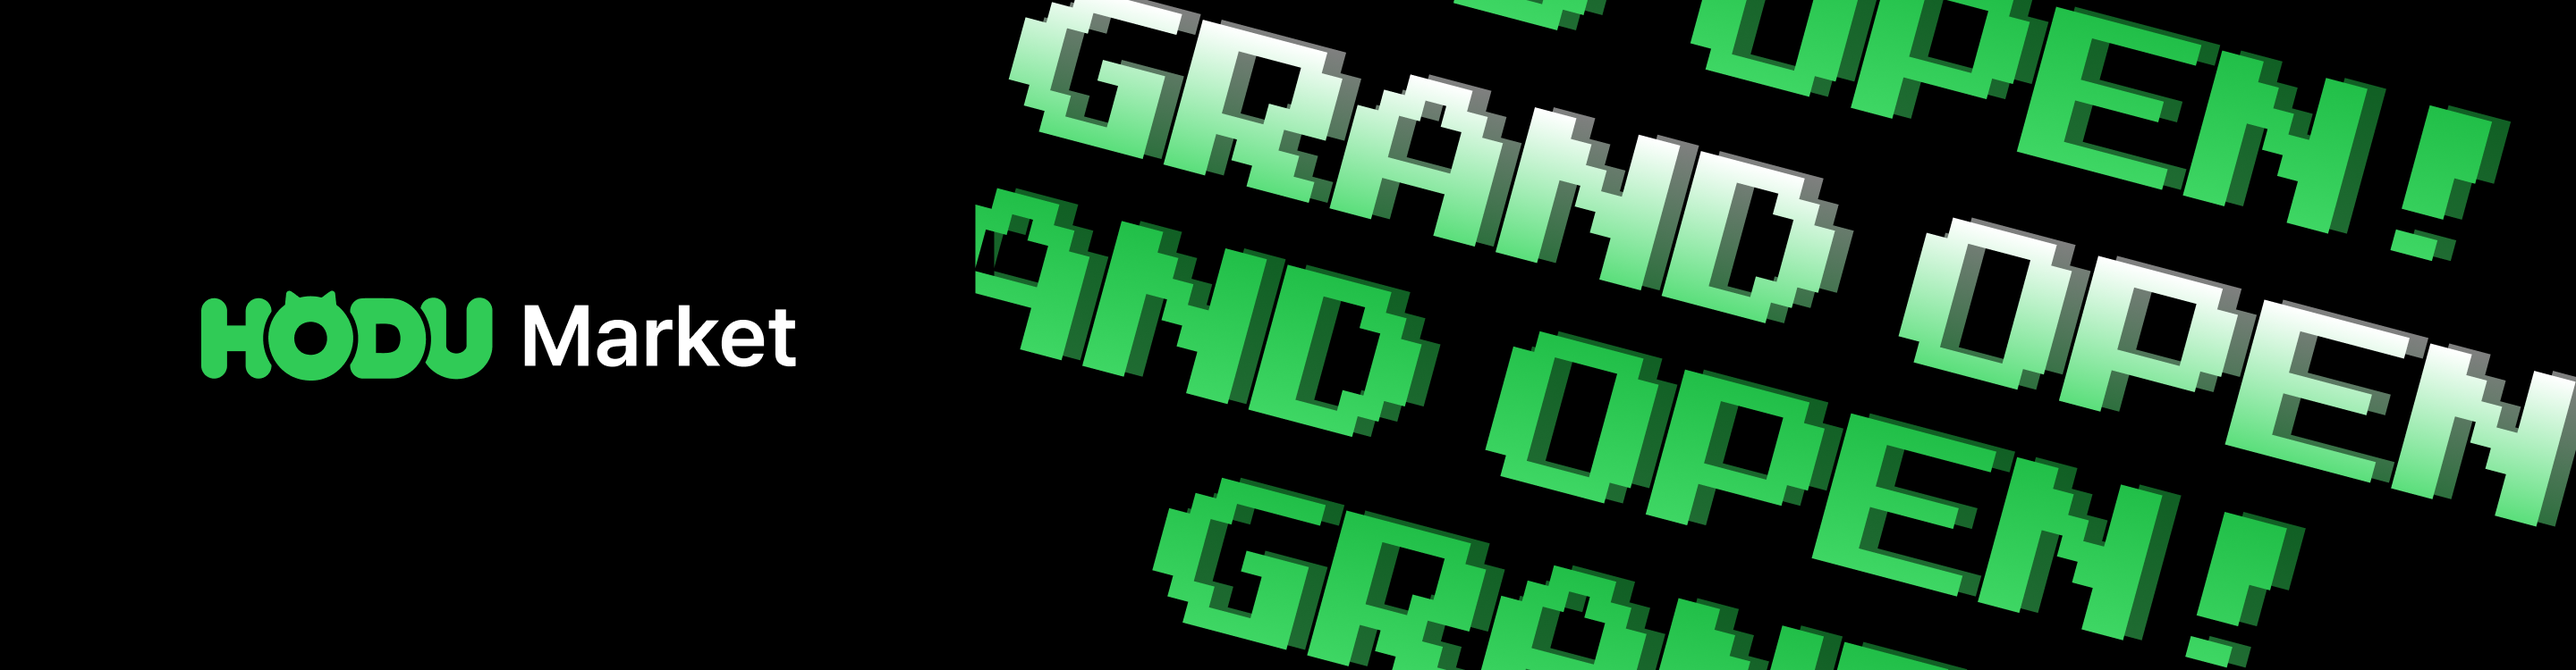
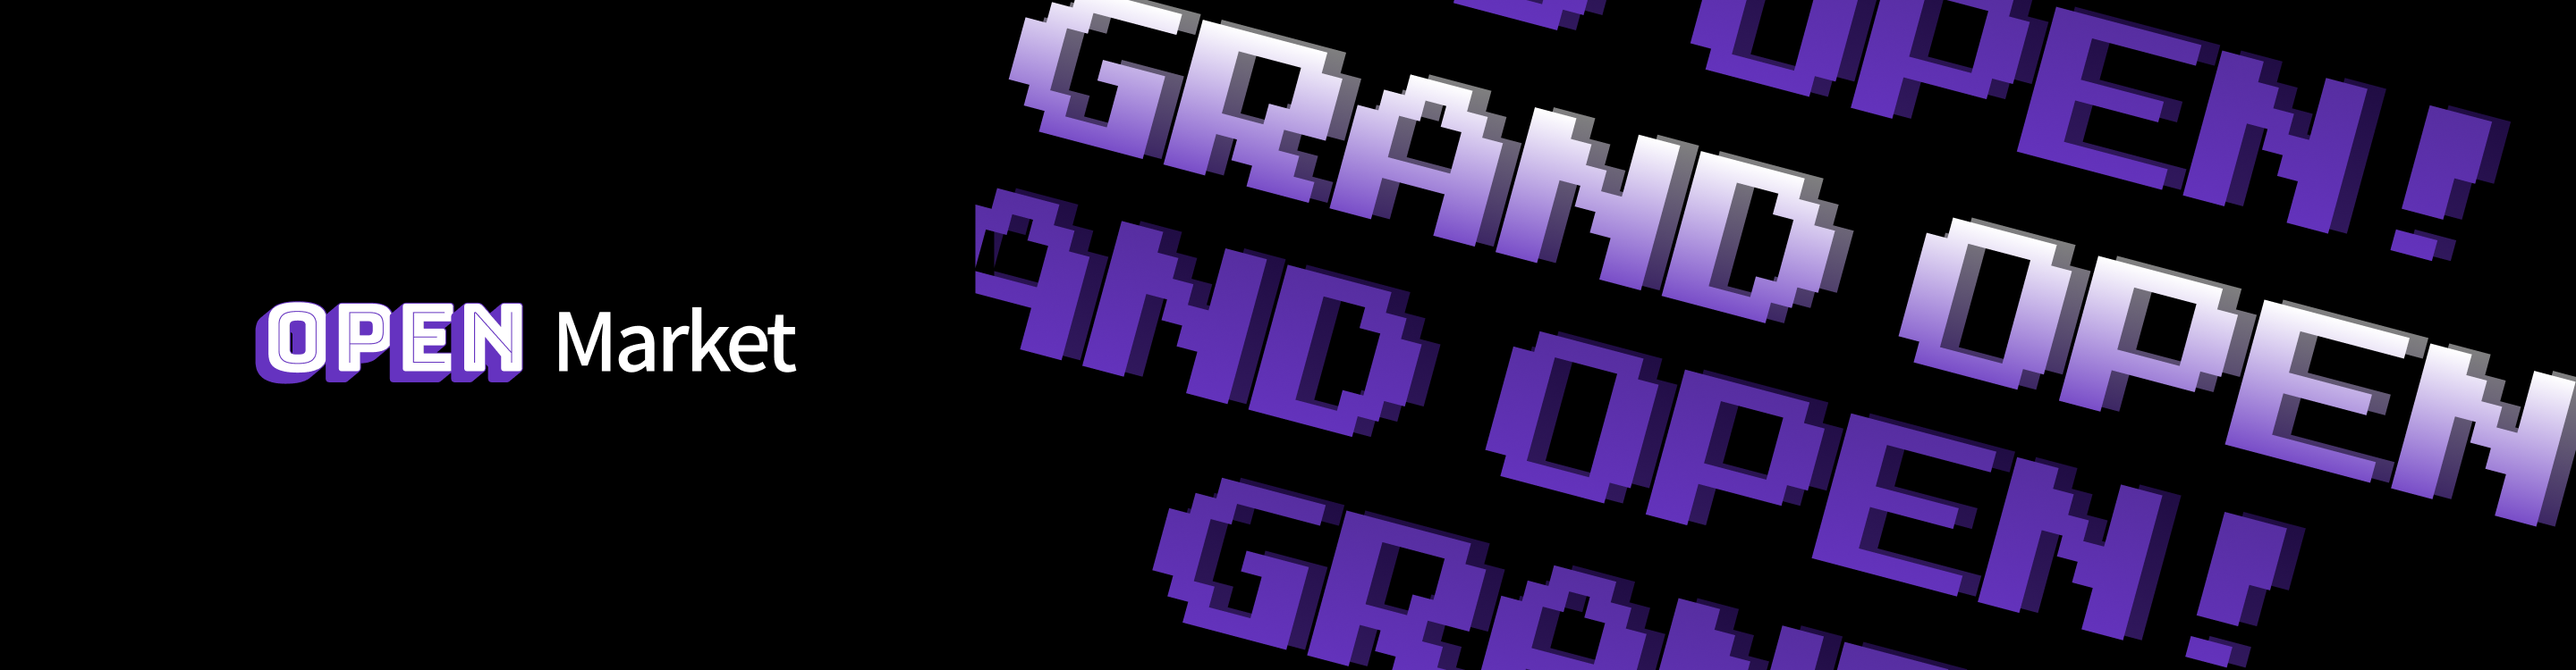
💄[style update]공통 스타일 변경

diff --git a/project/hodu-market/src/component/header/Header.jsx b/project/hodu-market/src/component/header/Header.jsx
@@ -87,7 +87,7 @@ const Header = () => {
       <div className={styles['contnent-area']}>
         <div className={styles['left-contnet']}>
           <h1 className={styles['logo-area']} onClick={handleHomeLink}>
-            <img src={process.env.PUBLIC_URL + '/image/Logo-hodu.png'} alt='hodu martet'/>
+            <img src={process.env.PUBLIC_URL + '/image/main-logo.png'} alt='hodu martet'/>
           </h1> 
           <div className={styles['search-box']}>
             <input className={styles['search-bar']} type='text' placeholder='상품을 검색해보세요!' value={searchText} onChange={(e)=>{setSearchText(e.target.value)}}  onFocus={() => {searchText.length !== 0 ? setSearchResultOpen(true) : setSearchResultOpen(false)}} onBlur={() => {setSearchResultOpen(false)}}/>
@@ -152,7 +152,7 @@ const Header = () => {
         :
         //판매자 회원일 경우
         <div className={styles['right-contnet']}>
-          <BasicBtn $textMs $paddingS onClick={handleSellerCenter}>판매자 센터</BasicBtn>
+          <BasicBtn $green $textMs $paddingS onClick={handleSellerCenter}>판매자 센터</BasicBtn>
           <button className={styles['icon-btn']} onClick={moreMenuFn} onBlur={() => {setShowMenu(false)}}>
             <i className='icon icon-user'></i>
             <span className={styles['btn-title']}>마이페이지</span>

diff --git a/project/hodu-market/src/pages/seller/seller.module.css b/project/hodu-market/src/pages/seller/seller.module.css
@@ -11,14 +11,14 @@
   font-size: 30px;
 }
 .title-box>h3>strong {
-  color: #21BF48;
+  color: #443B32;
   padding-left: 5px;
 }
 .title-box>button i {
   margin-right: 8px;
 }
 .content-box {
-  height: calc(100vh - 210px);
+  height: 100%;
   min-height: 400px;
   padding-bottom: 50px;
   display: flex;
@@ -38,15 +38,19 @@
   border-radius: 5px;
 }
 .tab-box .tab-obj.active {
-  background-color: #21BF48;
+  background-color: #443B32;
   color: #fff;
 }
 .tab-box .tab-obj.active:hover {
-  background-color: #21BF48;
+  background-color: #443B32;
   color: #fff;
 }
 .tab-box .tab-obj:hover {
-  background-color: #EFFFF3;
+  background-color: #cfcfcf;
+}
+.tab-box .tab-obj.active>span {
+  background-color: #fff;
+  color: #443B32;
 }
 .tab-box .tab-obj>span {
   position: absolute;
@@ -56,7 +60,7 @@
   right: 15px;
   top: 50%;
   transform: translateY(-50%);
-  background-color: #EB5757;
+  background-color: #443B32;
   text-align: center;
   color: #fff;
   font-size: 12px;
@@ -172,7 +176,7 @@
 }
 .edit-box .input-box .edit-obj button.active {
   border: none;
-  background-color: #21BF48;
+  background-color: #443B32;
   color: #fff;
 }
 .edit-box .input-box .edit-obj .obj-deco-input {

diff --git a/project/hodu-market/src/component/header/header.module.css b/project/hodu-market/src/component/header/header.module.css
@@ -37,7 +37,7 @@
   padding: 13px 50px 13px 22px;
   width: 100%;
   border-radius: 50px;
-  border: 2px solid #21BF48;
+  border: 2px solid #6533C0;
   background: #FFF;
 }
 .left-contnet .search-btn {
@@ -59,7 +59,7 @@
   display: block;
   padding-bottom: 5px;
   font-family: 'Spoqa Han Sans Neo-Bold';
-  color: #21BF48;
+  color: #6533C0;
   border-bottom: 1px solid #c4c4c4;
   padding: 10px 15px;
 }
@@ -108,7 +108,7 @@
   color: #767676;
 }
 .left-contnet .search-result-box .result-obj>li:hover {
-  background-color: #21bf492f;
+  background-color: #6433c018;
 }
 .left-contnet .search-result-box .result-obj>li>div>strong {
   font-size: 14px;
@@ -135,7 +135,7 @@
   align-items: center;
 }
 .right-contnet .icon-btn:hover>i {
-  filter: invert(50%) sepia(95%) saturate(390%) hue-rotate(83deg) brightness(98%) contrast(96%);
+  filter: invert(36%) sepia(84%) saturate(7110%) hue-rotate(256deg) brightness(65%) contrast(89%);
 }
 .right-contnet .icon-btn .btn-title {
   color: #767676;
@@ -143,7 +143,7 @@
   font-size: 12px;
 }
 .right-contnet .icon-btn:hover .btn-title {
-  color: #21BF48;
+  color: #6533C0;
 }
 .right-contnet .my-more-menu {
   position: absolute;

diff --git a/project/hodu-market/src/pages/login/Login.jsx b/project/hodu-market/src/pages/login/Login.jsx
@@ -75,7 +75,7 @@ const Login = () => {
       <div className={styles['content-area']}>
         <Link to={'/'}>
           <h1 className={styles['page-title']}>
-            <img src={process.env.PUBLIC_URL + '/image/Logo-hodu.png'} alt='hodu market'/>
+            <img src={process.env.PUBLIC_URL + '/image/main-logo.png'} alt='hodu market'/>
           </h1>
         </Link>
         <section className={styles['form-area']}>
@@ -89,7 +89,7 @@ const Login = () => {
             </button>
           </div>
           <form className={styles['input-area']} onSubmit={handelLogin}>
-            <h3 className={styles['form-title']}>
+            <h3 className={loginType === 'SELLER' ? `${styles['form-title']} ${styles.seller}` : styles['form-title']}>
               {loginType === 'SELLER' ? '판매회원 로그인 화면입니다.' : '구매회원 로그인 화면입니다.'}
               {loginType === 'SELLER' ? 
               <p><strong>구매회원</strong>이실 경우 상단 탭이에서 <strong>'구매회원 로그인'</strong>선택 후 로그인을 진행해 주세요</p>

diff --git a/project/hodu-market/src/pages/join/Join.jsx b/project/hodu-market/src/pages/join/Join.jsx
@@ -221,7 +221,7 @@ const Join = () => {
       <div className={styles['content-area']}>
         <Link to={'/'}>
           <h1 className={styles['page-title']}>
-            <img src={process.env.PUBLIC_URL + '/image/Logo-hodu.png'} alt='hodu market'/>
+            <img src={process.env.PUBLIC_URL + '/image/main-logo.png'} alt='hodu market'/>
           </h1>
         </Link>
         <section className={styles['form-area']}>
@@ -236,7 +236,7 @@ const Join = () => {
           </div>
           <form className={styles['input-area']}>
             <div className={styles['input-box']}>
-              <h3 className={styles['form-title']}>
+            <h3 className={loginType === 'SELLER' ? `${styles['form-title']} ${styles.seller}` : styles['form-title']}>
                 {loginType === 'SELLER' ? '판매회원 가입 화면입니다.' : '구매회원 가입 화면입니다.'}
                 {loginType === 'SELLER' ? 
                 <p><strong>구매회원</strong>가입을 원하실 경우 상단 탭에서<strong>'구매회원 가입'</strong>을 선택해 주세요</p>

diff --git a/project/hodu-market/src/pages/join/join.module.css b/project/hodu-market/src/pages/join/join.module.css
@@ -57,8 +57,11 @@
 }
 .content-area .input-box>.form-title{
   font-family: 'Spoqa Han Sans Neo-Bold';
-  color: #21BF48;
+  color: #6533C0;
   text-align: center;
+}
+.content-area .input-box>.form-title.seller {
+  color: #443B32;
 }
 .content-area .input-box>.form-title>p {
   color: #767676;
@@ -66,8 +69,13 @@
   padding: 10px 0 15px 0;
 }
 .content-area .input-box>.form-title>p>strong {
-  border-bottom: 1px solid #767676;
+  border-bottom: 1px solid #6533C0;
   font-family: 'Spoqa Han Sans Neo-Medium';
+  color: #6533C0;
+}
+.content-area .input-box>.form-title.seller>p>strong {
+  border-bottom: 1px solid #443B32;
+  color: #443B32;
 }
 /*스크롤 영역 커스텀*/
 .content-area .input-box::-webkit-scrollbar {
@@ -106,7 +114,7 @@
 }
 
 .input-box .alert-mes-ok {
-  color: #21BF48;
+  color: #6533C0;
 }
 
 .input-box .margin-area {
@@ -141,7 +149,7 @@
   padding: 0 14px;
 }
 .content-area .ect-btn a:hover{
-  color: #21BF48;
+  color: #6533C0;
 }
 .content-area .ect-btn a:nth-child(2) {
   border-left: 1px solid #333;

diff --git a/project/hodu-market/src/pages/login/login.module.css b/project/hodu-market/src/pages/login/login.module.css
@@ -47,8 +47,11 @@
 }
   .content-area .input-area>.form-title{
     font-family: 'Spoqa Han Sans Neo-Bold';
-    color: #21BF48;
+    color: #6533C0;
     text-align: center;
+  }
+  .content-area .input-area>.form-title.seller {
+    color: #443B32;
   }
   .content-area .input-area>.form-title>p {
     color: #767676;
@@ -56,8 +59,13 @@
     padding: 10px 0 15px 0;
   }
   .content-area .input-area>.form-title>p>strong {
-    border-bottom: 1px solid #767676;
+    border-bottom: 1px solid #6533C0;
     font-family: 'Spoqa Han Sans Neo-Medium';
+    color: #6533C0;
+  }
+  .content-area .input-area>.form-title.seller>p>strong {
+    border-bottom: 1px solid #443B32;
+    color: #443B32;
   }
   .input-area .input-box {
     display: flex;
@@ -81,7 +89,7 @@
   padding: 0 14px;
 }
 .content-area .ect-btn a:hover{
-  color: #21BF48;
+  color: #6533C0;
 }
 .content-area .ect-btn a:nth-child(2) {
   border-left: 1px solid #333;

diff --git a/project/hodu-market/src/pages/prodDetail/prodDetail.module.css b/project/hodu-market/src/pages/prodDetail/prodDetail.module.css
@@ -79,7 +79,7 @@
 }
 .prod-buy .prod-sum>.sum-info .sum-label>.sum-count {
   font-family: 'Spoqa Han Sans Neo-Bold';
-  color: #21BF48;
+  color: #6533C0;
 }
 .prod-buy .prod-sum>.sum-info .sum-price {
   font-family: 'Spoqa Han Sans Neo-Bold';
@@ -116,8 +116,8 @@
 }
 .tab-list .tab-btn.tab-active {
   font-family: 'Spoqa Han Sans Neo-Bold';
-  color: #21BF48;
-  border-bottom: 6px solid #21BF48;
+  color: #6533C0;
+  border-bottom: 6px solid #6533C0;
 }
 .detailInfo-area .tab-content-box {
   padding: 50px 10px 100px 10px;

diff --git a/project/hodu-market/src/index.css b/project/hodu-market/src/index.css
@@ -99,6 +99,7 @@ ul {
   width:28px;
   height:28px;
   background-image:url('../public/image/icon/icon-search.svg');
+  filter: invert(36%) sepia(84%) saturate(7110%) hue-rotate(256deg) brightness(65%) contrast(89%);
 }
 .icon-check-off{
   width:28px;
@@ -261,7 +262,7 @@ ul {
   border-radius: 5px;
   font-size: 16px;
   padding: 8px 10px;
-  background-color: #21BF48;
+  background-color: #6533C0;
   color: #fff;
 }
 .pop-btn-box>button:first-child {

diff --git a/project/hodu-market/src/component/Input.jsx b/project/hodu-market/src/component/Input.jsx
@@ -11,7 +11,7 @@ export const BasicInput = styled.input`
   }
   &:focus {
     outline: none;
-    border-bottom: 2px solid #21BF48;
+    border-bottom: 2px solid #6533C0;
   }
   /*fullwidth: width 100% 버튼일 경우*/
   ${(props) =>
@@ -32,7 +32,7 @@ export const LabelInput = styled.label`
     border: 1px solid #C4C4C4;
     height: 54px;
     &:focus {
-    outline: 2px solid #21BF48;
+    outline: 2px solid #6533C0;
     }
   }
 `

diff --git a/project/hodu-market/src/pages/seller/SellerCenter.jsx b/project/hodu-market/src/pages/seller/SellerCenter.jsx
@@ -38,7 +38,7 @@ const SellerCenter = () => {
       <div className='header-top'>
         <div className={styles['title-box']}>
           <h3>대시보드 <strong>{userName.username}</strong></h3>
-          <BasicBtn $textS $paddingS onClick={handleAddProd}>
+          <BasicBtn $green $textS $paddingS onClick={handleAddProd}>
             <i className='icon icon icon-plus'></i>
             상품 업로드
           </BasicBtn>

diff --git a/project/hodu-market/src/component/Button.jsx b/project/hodu-market/src/component/Button.jsx
@@ -4,7 +4,7 @@ const BasicBtn = styled.button`
 height: 60px;
 font-family: 'Spoqa Han Sans Neo-Bold';
 font-size: 18px;
-background: #21BF48;
+background: #6533C0;
 border-radius: 5px;
 color: #fff;
 padding: 19px 0;
@@ -36,6 +36,14 @@ ${(props) =>
       color: #000;
       border: 1px solid #767676;
     }
+  `
+}
+
+/*green: 초록 버튼*/
+${(props) =>
+  props.$green &&
+  css`
+    background: #443B32;
   `
 }
 
